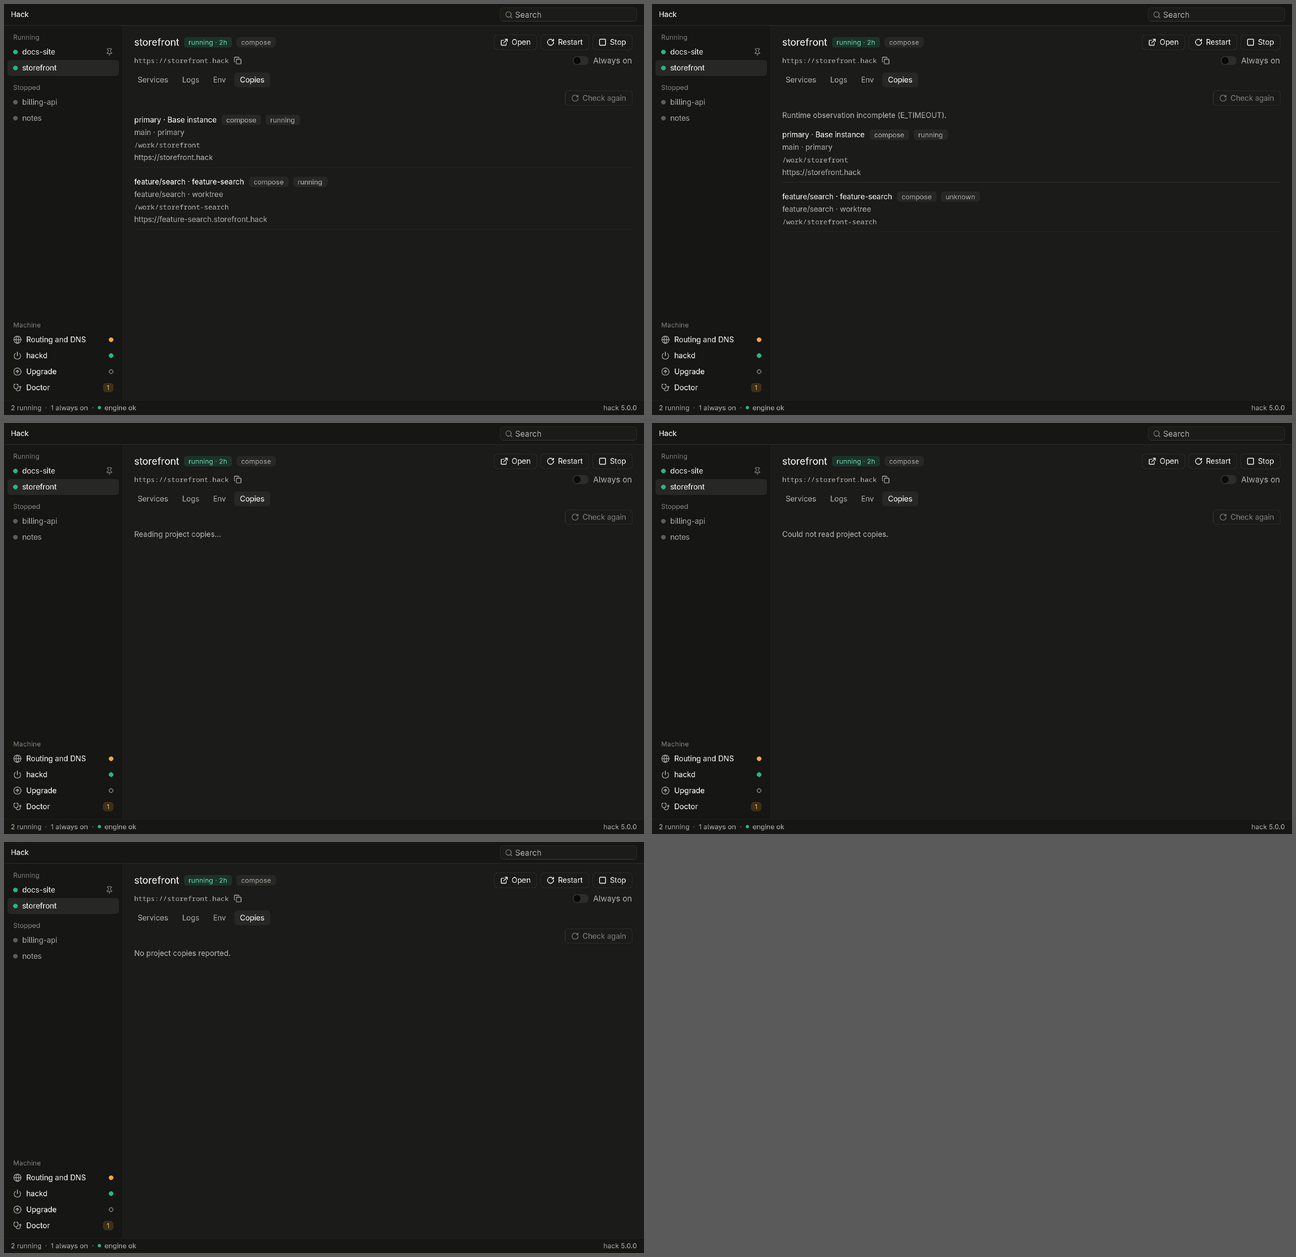
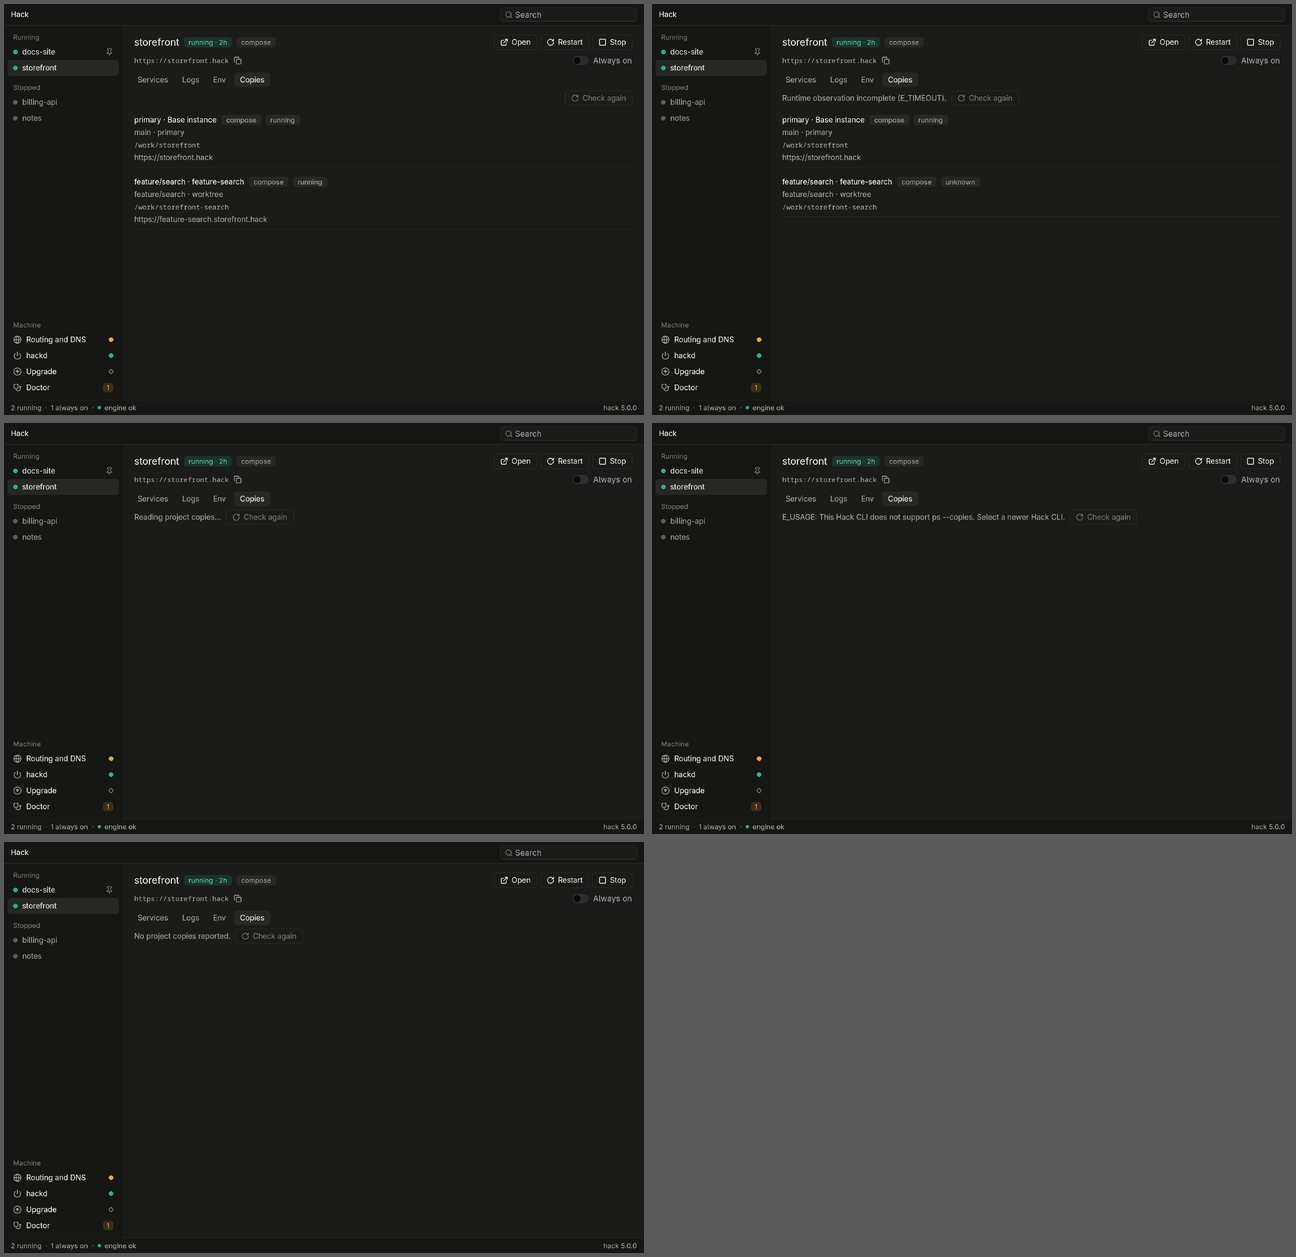
fix(desktop): explain failed project copies reads

diff --git a/apps/desktop/app/src/copies_view.rs b/apps/desktop/app/src/copies_view.rs
@@ -1,9 +1,10 @@
+use gpui_kit::prelude::FluentBuilder as _;
 use gpui_kit::{
     Context, Div, InteractiveElement as _, ParentElement as _, StatefulInteractiveElement as _,
     Styled as _, Task, div,
 };
 use hack_desktop_core::source::{
-    CopiesObservation, CopiesReport, CopyCheckout, ProjectCopy, SourceError,
+    CopiesError, CopiesObservation, CopiesReport, CopyCheckout, ProjectCopy,
 };
 use hack_desktop_ui::{
     components::{StyledExt as _, Ui, action_button, neutral_pill},
@@ -15,7 +16,7 @@ use crate::view::HackApp;
 
 #[derive(Default)]
 pub(crate) struct CopiesPane {
-    result: Option<Result<CopiesReport, SourceError>>,
+    result: Option<Result<CopiesReport, CopiesError>>,
     pending: Option<Task<()>>,
 }
 
@@ -69,60 +70,60 @@ impl HackApp {
             .gap(space::S4)
             .type_step(text::BODY)
             .text_color(ui.p.text_secondary);
-        let body = match &self.copies.result {
+        let summary = match &self.copies.result {
             None if self.copies.pending.is_some() || !self.live => {
-                body.child("Reading project copies…")
+                Some("Reading project copies…".into())
             }
-            None => body.child("Select a project with a known checkout to read copies."),
-            Some(Err(error)) => body.child(match error {
-                SourceError::Cli { code, .. } => format!("Could not read project copies ({code})."),
-                _ => "Could not read project copies.".into(),
-            }),
-            Some(Ok(report)) => body
-                .children((!report.observation.ok).then(|| {
-                    let reason = report
-                        .observation
-                        .code
-                        .as_deref()
-                        .unwrap_or("status unavailable");
-                    format!("Runtime observation incomplete ({reason}).")
-                }))
-                .children(
-                    (report.copies.is_empty() && report.observation.ok)
-                        .then_some("No project copies reported."),
-                )
-                .children(report.copies.iter().map(|copy| {
-                    let instance = copy.instance.as_deref().unwrap_or("Base instance");
-                    let branch = copy.branch.as_deref().unwrap_or("Branch unknown");
-                    div()
-                        .flex()
-                        .flex_col()
-                        .gap(space::S2)
-                        .py(space::S4)
-                        .hairline_b(ui.p.border)
-                        .child(
-                            div()
-                                .flex()
-                                .items_center()
-                                .gap(space::S4)
-                                .child(
-                                    div()
-                                        .type_step(text::BODY_STRONG)
-                                        .text_color(ui.p.text_primary)
-                                        .child(format!("{} · {instance}", copy.checkout.name)),
-                                )
-                                .child(neutral_pill(copy.backend.clone(), ui))
-                                .child(neutral_pill(copy.state.clone(), ui)),
-                        )
-                        .child(format!("{branch} · {}", copy.checkout.kind))
-                        .child(
-                            div()
-                                .type_step(text::MONO)
-                                .font_family(ui.mono.clone())
-                                .child(copy.checkout.root.clone()),
-                        )
-                        .children(copy.address.clone())
-                })),
+            None => Some("Select a project with a known checkout to read copies.".into()),
+            Some(Err(error)) => Some(format!("{} {}", error.reason, error.hint)),
+            Some(Ok(report)) if !report.observation.ok => {
+                let reason = report
+                    .observation
+                    .code
+                    .as_deref()
+                    .unwrap_or("status unavailable");
+                Some(format!("Runtime observation incomplete ({reason})."))
+            }
+            Some(Ok(report)) if report.copies.is_empty() => {
+                Some("No project copies reported.".into())
+            }
+            Some(Ok(_)) => None,
+        };
+        let has_summary = summary.is_some();
+        let rows = match &self.copies.result {
+            Some(Ok(report)) => body.children(report.copies.iter().map(|copy| {
+                let instance = copy.instance.as_deref().unwrap_or("Base instance");
+                let branch = copy.branch.as_deref().unwrap_or("Branch unknown");
+                div()
+                    .flex()
+                    .flex_col()
+                    .gap(space::S2)
+                    .py(space::S4)
+                    .hairline_b(ui.p.border)
+                    .child(
+                        div()
+                            .flex()
+                            .items_center()
+                            .gap(space::S4)
+                            .child(
+                                div()
+                                    .type_step(text::BODY_STRONG)
+                                    .text_color(ui.p.text_primary)
+                                    .child(format!("{} · {instance}", copy.checkout.name)),
+                            )
+                            .child(neutral_pill(copy.backend.clone(), ui))
+                            .child(neutral_pill(copy.state.clone(), ui)),
+                    )
+                    .child(format!("{branch} · {}", copy.checkout.kind))
+                    .child(
+                        div()
+                            .type_step(text::MONO)
+                            .font_family(ui.mono.clone())
+                            .child(copy.checkout.root.clone()),
+                    )
+                    .children(copy.address.clone())
+            })),
+            _ => body,
         };
         div()
             .flex()
@@ -132,13 +133,27 @@ impl HackApp {
             .px(space::S8)
             .pb(space::S5)
             .gap(space::S4)
-            .child(div().flex().justify_end().child(refresh))
+            .child(
+                div()
+                    .flex()
+                    .items_center()
+                    .gap(space::S4)
+                    .when(!has_summary, |row| row.justify_end())
+                    .children(summary.map(|message| {
+                        div()
+                            .min_w_0()
+                            .type_step(text::BODY)
+                            .text_color(ui.p.text_secondary)
+                            .child(message)
+                    }))
+                    .child(refresh),
+            )
             .child(
                 div()
                     .id("copies-list")
                     .min_h_0()
                     .overflow_y_scroll()
-                    .child(body),
+                    .child(rows),
             )
     }
 
@@ -177,7 +192,10 @@ impl HackApp {
         };
         self.copies.result = match name {
             "copies-loading" => None,
-            "copies-error" => Some(Err(SourceError::CliMissing)),
+            "copies-error" => Some(Err(CopiesError {
+                reason: "E_USAGE: This Hack CLI does not support ps --copies.".into(),
+                hint: "Select a newer Hack CLI.".into(),
+            })),
             _ => Some(Ok(CopiesReport {
                 copies,
                 observation: CopiesObservation {

diff --git a/apps/desktop/core/src/source.rs b/apps/desktop/core/src/source.rs
@@ -341,10 +341,55 @@ pub struct CopiesObservation {
     pub code: Option<String>,
 }
 
+/// A short reason and next step for a failed copies observation.
+#[derive(Debug)]
+pub struct CopiesError {
+    pub reason: String,
+    pub hint: String,
+}
+
+impl From<RunError> for CopiesError {
+    fn from(error: RunError) -> Self {
+        let (reason, hint): (String, String) = match error {
+            RunError::Cli(error) => {
+                let fallback = match error.code.as_str() {
+                    "E_USAGE" => "Select a Hack CLI that supports ps --copies.",
+                    "E_PROJECT_NOT_FOUND" => "Check the project checkout and try again.",
+                    "E_DOCKER_UNAVAILABLE" => "Start the container engine and check again.",
+                    _ => "Run hack ps --copies from the checkout for more detail.",
+                };
+                let hint = error
+                    .detail
+                    .as_ref()
+                    .and_then(|detail| detail.get("hint"))
+                    .and_then(serde_json::Value::as_str)
+                    .unwrap_or(fallback)
+                    .to_owned();
+                (format!("{}: {}", error.code, error.message), hint)
+            }
+            RunError::NotFound => (
+                "Hack CLI unavailable.".into(),
+                "Select an installed Hack CLI.".into(),
+            ),
+            RunError::Timeout { after } => (
+                format!("E_TIMEOUT: Hack did not answer within {after:?}."),
+                "Check again.".into(),
+            ),
+            // Don't display unsolicited subprocess output, including stdout from
+            // a CLI that doesn't implement the JSON contract.
+            _ => (
+                "Hack did not return a project copies report.".into(),
+                "Run hack ps --copies from the checkout for more detail.".into(),
+            ),
+        };
+        Self { reason, hint }
+    }
+}
+
 pub trait Source: Send + Sync {
     /// Observe the project family in the selected checkout.
-    fn copies(&self, _root: &Path, _native: bool) -> Result<CopiesReport, SourceError> {
-        Err(SourceError::Pending)
+    fn copies(&self, _root: &Path, _native: bool) -> Result<CopiesReport, CopiesError> {
+        Err(RunError::NotFound.into())
     }
 
     /// Read names-only env metadata; diagnostics must never contain CLI output.
@@ -2058,8 +2103,11 @@ impl Source for LiveSource {
         Self::read_native_ps(&Self::native_runner(&self.runner.fixed()), repo_root)
     }
 
-    fn copies(&self, root: &Path, native: bool) -> Result<CopiesReport, SourceError> {
-        let root = trusted_root(root)?;
+    fn copies(&self, root: &Path, native: bool) -> Result<CopiesReport, CopiesError> {
+        let root = trusted_root(root).map_err(|error| CopiesError {
+            reason: describe_error(&error),
+            hint: "Check the project checkout and try again.".into(),
+        })?;
         // The CLI gives its parallel observation jobs 45 s. Leave time for
         // project discovery and address resolution before the runner retires it.
         Ok(self.runner_for(native).run_json(
@@ -4671,6 +4719,26 @@ esac
 
     fn untrusted(r: Result<PathBuf, SourceError>) -> bool {
         matches!(r, Err(SourceError::Cli { ref code, .. }) if code == "E_APP_UNTRUSTED_ROOT")
+    }
+
+    #[test]
+    fn copies_error_keeps_the_cli_hint_and_ignores_unstructured_output() {
+        let error = CopiesError::from(RunError::Cli(crate::models::CliError {
+            code: "E_NATIVE_SETUP_REQUIRED".into(),
+            message: "Native runtime unavailable.".into(),
+            detail: Some(serde_json::json!({"hint": "Run hack native setup."})),
+        }));
+        assert_eq!(
+            error.reason,
+            "E_NATIVE_SETUP_REQUIRED: Native runtime unavailable."
+        );
+        assert_eq!(error.hint, "Run hack native setup.");
+
+        let error = CopiesError::from(RunError::Exit {
+            code: Some(1),
+            stderr: "fixture output".into(),
+        });
+        assert!(!error.reason.contains("fixture output"));
     }
 
     #[test]
